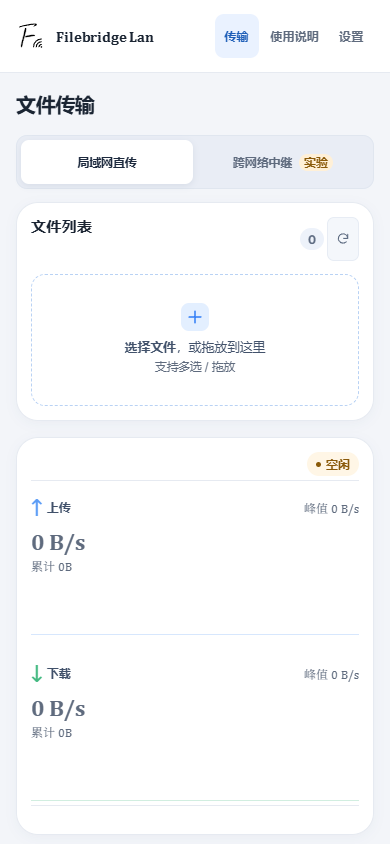
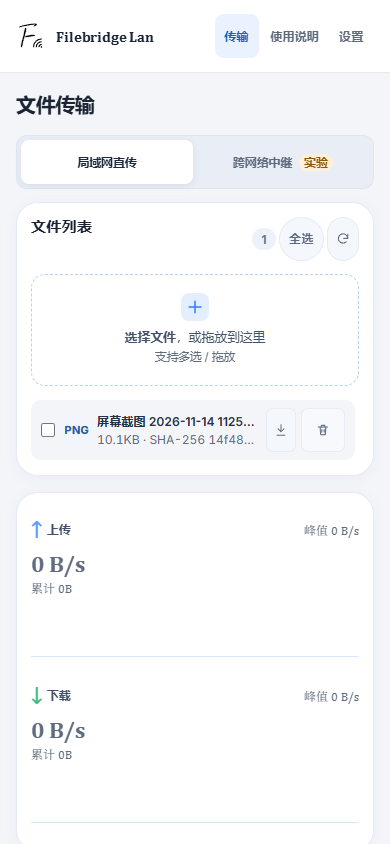
style: simplify progress card and round controls

diff --git a/src/http/HttpTransfer.tsx b/src/http/HttpTransfer.tsx
@@ -1774,13 +1774,13 @@ export function HttpTransfer({ lanService = null, networkBlocked = false }: Http
                 </button>
               )}
               {desktop && (
-                <button type="button" className="btn btn-ghost btn-small" onClick={openDownloadDir} title="打开下载文件夹">
-                  <Icon name="folder" size={14} /> 打开
+                <button type="button" className="btn btn-ghost btn-icon-round" onClick={openDownloadDir} title="打开下载文件夹" aria-label="打开下载文件夹">
+                  <Icon name="folder" size={14} />
                 </button>
               )}
               <button
                 type="button"
-                className="btn btn-ghost btn-small btn-icon-refresh"
+                className="btn btn-ghost btn-icon-round"
                 aria-label="刷新文件列表"
                 title="刷新"
                 onClick={() => { spinRefresh(); void refresh(); }}
@@ -1976,13 +1976,6 @@ export function HttpTransfer({ lanService = null, networkBlocked = false }: Http
         </article>
 
         <article className={`card progress-card${hasActiveTransfer ? '' : ' is-idle'}`}>
-          <div className="card-head">
-            <div>
-              {hasActiveTransfer && <p>上传、接收和保存的实时状态。</p>}
-            </div>
-            {!hasActiveTransfer && <span className="status-pill warn">空闲</span>}
-          </div>
-
           <div className="rate-grid">
             <RateCard
               label="上传"
@@ -2032,25 +2025,6 @@ export function HttpTransfer({ lanService = null, networkBlocked = false }: Http
                 {upload.status === 'error' && <span className="text-error" role="alert">{upload.error || '上传失败'}</span>}
 
               </div>
-              <details className="upload-diag" open={upload.status === 'error'}>
-                <summary>上传诊断</summary>
-                <dl>
-                  <dt>模式</dt><dd><select value={transport} onChange={(event) => setTransport(event.target.value as UploadTransport)} aria-label="上传传输方式"><option value="xhr-blob">XHR Blob</option><option value="fetch-blob">Fetch Blob</option></select> · {uploadDiagnostic?.mode}</dd>
-                  <dt>分块</dt><dd>{formatBytes(uploadDiagnostic?.chunkBytes || 0)}</dd>
-                  <dt>浏览器已发送</dt><dd>{formatBytes(uploadDiagnostic?.browserSent || 0)}</dd>
-                  <dt>服务器请求已读取</dt><dd>{uploadDiagnostic?.serverBodyRead == null ? '—' : formatBytes(uploadDiagnostic.serverBodyRead)}</dd>
-                  <dt>服务端落盘</dt><dd>{uploadDiagnostic?.serverPartSize == null ? '—' : formatBytes(uploadDiagnostic.serverPartSize)}</dd>
-                  <dt>客户端确认 offset</dt><dd>{formatBytes(uploadDiagnostic?.serverConfirmed || 0)}</dd>
-                  <dt>请求状态</dt><dd>{uploadDiagnostic?.serverBodyState ?? '—'} · {uploadDiagnostic?.requestPhase ?? '—'}</dd>
-                  <dt>服务端状态码</dt><dd>{uploadDiagnostic?.serverStatusCode ?? '—'}</dd>
-                  <dt>Content-Length</dt><dd>{uploadDiagnostic?.contentLength ?? '—'}</dd>
-                  <dt>Transfer-Encoding</dt><dd>{uploadDiagnostic?.transferEncoding ?? '—'}</dd>
-                  <dt>Expect</dt><dd>{uploadDiagnostic?.expect ?? '—'}</dd>
-                  <dt>耗时</dt><dd>{uploadDiagnostic?.durationMs == null ? '—' : `${uploadDiagnostic.durationMs}ms`}</dd>
-                  {uploadDiagnostic?.serverLastError && <><dt>请求错误</dt><dd>{uploadDiagnostic.serverLastError}</dd></>}
-                </dl>
-                <CopyButton text={JSON.stringify(uploadDiagnostic, null, 2)} label="复制上传诊断" />
-              </details>
               {(upload.status === 'uploading' || upload.status === 'retrying') && (
                 <button type="button" className="btn btn-small btn-ghost" onClick={cancelUpload}>
                   取消
@@ -2064,11 +2038,6 @@ export function HttpTransfer({ lanService = null, networkBlocked = false }: Http
               {upload.status === 'cancelled' && upload.file && (
                 <button type="button" className="btn btn-small" onClick={resumeUpload}>
                   重新上传
-                </button>
-              )}
-              {upload.status === 'done' && desktop && (
-                <button type="button" className="btn btn-small btn-ghost" onClick={() => void openDownloadDir()}>
-                  打开下载文件夹
                 </button>
               )}
             </div>

diff --git a/src/dashboard.css b/src/dashboard.css
@@ -3483,3 +3483,122 @@ input {
     animation: none;
   }
 }
+/*
+ * Annotation pass 2: remove the two rate-grid dividers, round the icon
+ * controls, center the nearby empty state, and give rows/buttons a
+ * Resource-Explorer-like hover with smooth press continuity.
+ */
+.rate-grid,
+.progress-card .rate-grid,
+.progress-card.is-idle .rate-grid {
+  border-top: 0;
+  border-bottom: 0;
+  padding-top: 0;
+  padding-bottom: 0;
+}
+
+.btn-icon-round {
+  width: 32px;
+  height: 32px;
+  min-width: 32px;
+  padding: 0;
+  border-radius: 999px;
+  display: inline-grid;
+  place-items: center;
+}
+
+.btn-icon-round svg.is-spinning {
+  animation: refresh-spin 620ms cubic-bezier(0.16, 1, 0.3, 1);
+  transform-origin: 50% 50%;
+}
+
+.card-actions .btn-small {
+  border-radius: 999px;
+}
+
+.nearby-empty {
+  justify-content: center;
+  text-align: center;
+}
+
+/* File rows read like Explorer "details": rounded hover band, no hard rule. */
+.file-row {
+  border-bottom: 0;
+  border-radius: 10px;
+  padding: 8px 10px;
+  margin: 1px 0;
+  transition:
+    background-color 160ms ease,
+    box-shadow 180ms ease,
+    transform 180ms cubic-bezier(0.16, 1, 0.3, 1);
+}
+
+.file-row:hover {
+  background: #f4f8ff;
+  box-shadow: 0 1px 3px rgba(35, 55, 90, 0.06);
+}
+
+.file-row:active {
+  transform: scale(0.997);
+  background: #eef4ff;
+}
+
+.file-row.selected {
+  background: #eaf2ff;
+}
+
+.file-row.selected:hover {
+  background: #e3eeff;
+}
+
+/* Icon controls respond to hover/press without a layout jump. */
+.btn,
+.btn-icon-round,
+.side-nav-item,
+.mode-tab {
+  transition:
+    background-color 160ms ease,
+    border-color 160ms ease,
+    color 160ms ease,
+    transform 120ms cubic-bezier(0.16, 1, 0.3, 1),
+    box-shadow 160ms ease;
+}
+
+.btn:active,
+.btn-icon-round:active,
+.side-nav-item:active {
+  transform: scale(0.97);
+}
+
+/* Cards ease their own height so content swaps do not snap. */
+.dashboard-grid > .card {
+  transition: height 260ms cubic-bezier(0.16, 1, 0.3, 1);
+}
+
+@media (prefers-reduced-motion: reduce) {
+  .file-row,
+  .btn,
+  .btn-icon-round,
+  .side-nav-item,
+  .mode-tab,
+  .dashboard-grid > .card {
+    transition: none;
+  }
+
+  .file-row:active,
+  .btn:active,
+  .btn-icon-round:active,
+  .side-nav-item:active {
+    transform: none;
+  }
+}
+/* Nearby empty state: no divider rule, centered single line. */
+.nearby-empty,
+.nearby-card .nearby-empty {
+  border-top: 0;
+  border: 0;
+  border-radius: 12px;
+  background: var(--surface-soft);
+  justify-content: center;
+  text-align: center;
+}

diff --git a/src/http/NearbyComputers.tsx b/src/http/NearbyComputers.tsx
@@ -91,13 +91,13 @@ export function NearbyComputers({ onConnect, activePeerId = null, activeState = 
       <div className="card-head">
         <div>
           <h2>附近电脑</h2>
-          <p>自动发现同一局域网内也打开 Filebridge 的电脑。</p>
+          <p>自动发现同网段的 Filebridge 电脑。</p>
         </div>
         <div className="card-actions">
           {peers.length > 0 && <span className="count-badge">{peers.length}</span>}
           <button
             type="button"
-            className="btn btn-ghost btn-small btn-icon-refresh"
+            className="btn btn-ghost btn-icon-round"
             aria-label="刷新附近电脑"
             title="刷新"
             onClick={() => { spinRefresh(); void refresh(); }}
@@ -119,7 +119,7 @@ export function NearbyComputers({ onConnect, activePeerId = null, activeState = 
         </div>
       ) : peers.length === 0 ? (
         <div className="nearby-empty">
-          <span>暂时没有发现其他电脑 · 确认同一子网且为专用网络</span>
+          <span>暂未发现其他电脑 · 确认同一子网且为专用网络</span>
         </div>
       ) : (
         <div className="nearby-list">
